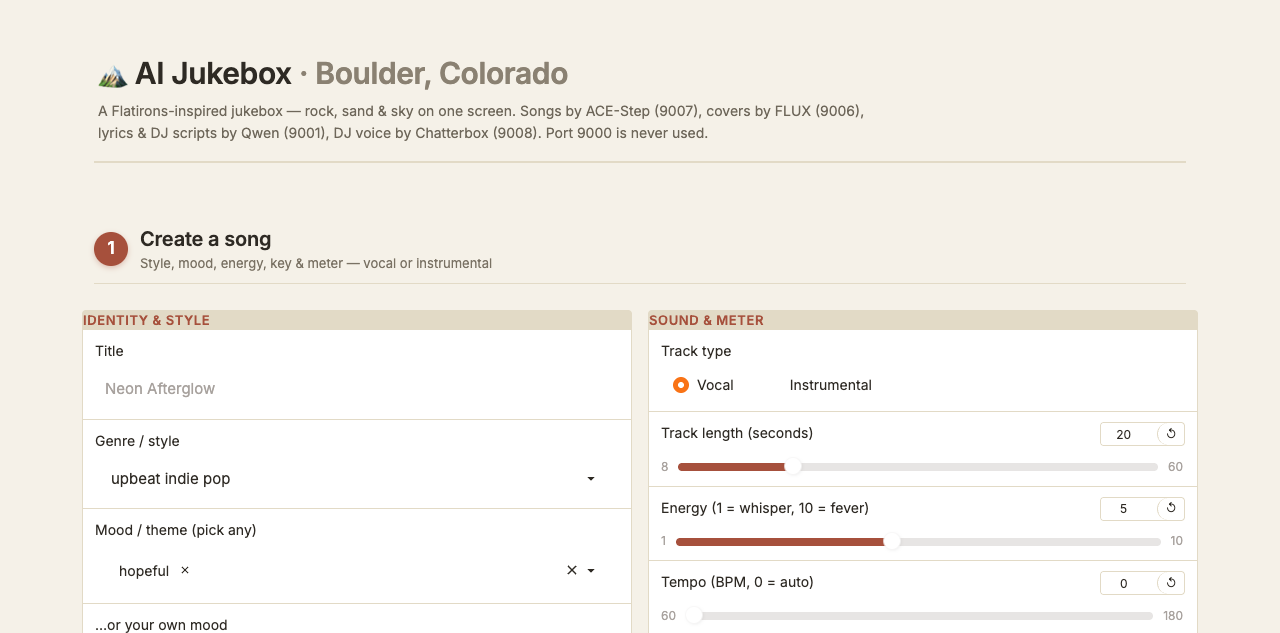
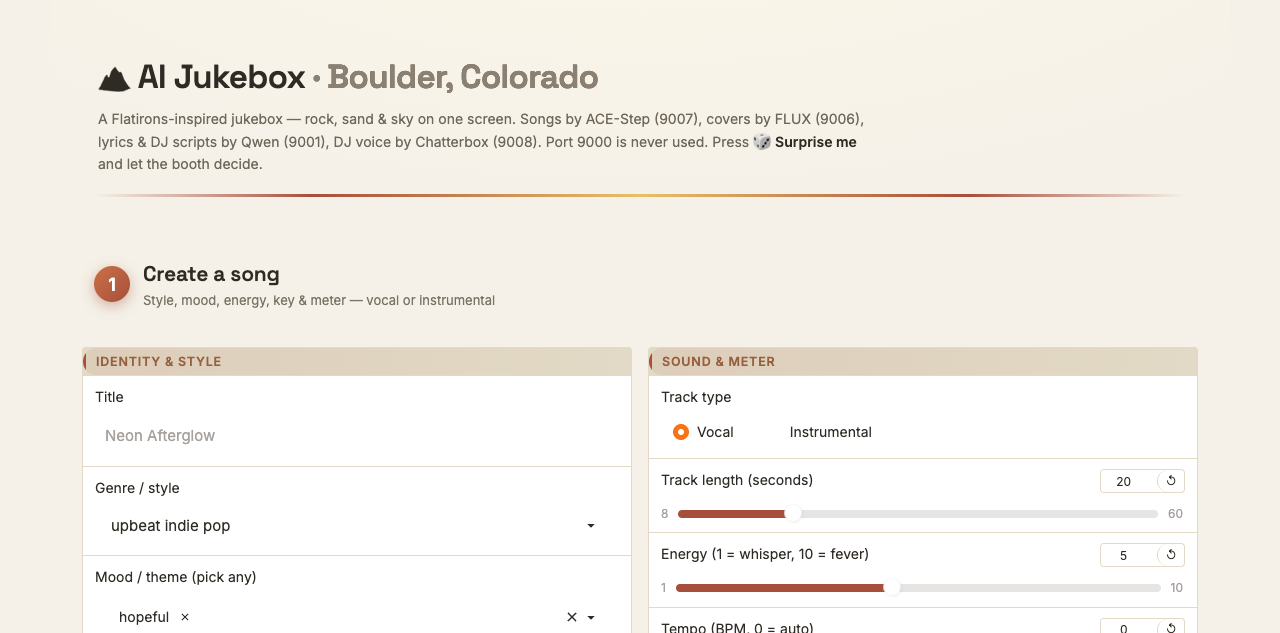
Pop redesign: gradient hero, glowing badges, pulsing actions, gold Surprise me
- Hero: gradient-clipped title (terra -> gold, Space Grotesk display type via
  @import with Inter fallback), gold sample chip, gradient hairline
- Section badges: gradient + glow; Space Grotesk headings
- Card captions: terra accent bar + soft wash; cards 14px radius + shadow
- Generate/Build the show: gradient fill + breathing pulse; Surprise me:
  gold gradient w/ playful hover tilt; Shuffle: terra hover kiss
- Background: warm radial glow; waveform stroke now a terra-gold gradient
- No wiring/logic changes (styling only) -> 53 tests still green
- Live link refreshed

diff --git a/app.py b/app.py
@@ -387,35 +387,70 @@ theme = gr.themes.Base(
 )
 
 _UI_CSS = """
-.gradio-container { max-width: 1180px !important; margin: 0 auto !important; }
+/* Display type for the big headings (falls back to Inter if offline). */
+@import url('https://fonts.googleapis.com/css2?family=Space+Grotesk:wght@600;800&display=swap');
+.gradio-container { max-width: 1180px !important; margin: 0 auto !important;
+  background: radial-gradient(1400px 560px at 50% -140px, #fdf7e9 0%, #f5f1e8 62%) !important; }
 button { border-radius: 999px !important; }
 blockquote { border-left: 3px solid #a6503c !important; }
 footer { color: #7a7264 !important; }
 
+/* ---- cards: soft, rounded, lifted ---- */
+.gradio-container .block { border-radius: 14px !important;
+  box-shadow: 0 1px 4px rgba(74, 58, 28, 0.08); border-color: #e7dfcb !important; }
+
 /* ---- hero header ---- */
-.jk-hero { padding: 26px 4px 18px; border-bottom: 2px solid #e2dac6; margin-bottom: 18px; }
-.jk-hero-title { font-size: 30px; font-weight: 800; letter-spacing: -0.4px; color: #2e2a24; }
-.jk-hero-title .city { color: #8a8172; font-weight: 600; }
-.jk-hero-sub { color: #6e675a; font-size: 14px; margin-top: 6px; max-width: 780px; line-height: 1.55; }
-.jk-hero-chip { display: inline-block; margin-top: 10px; background: #f0e8d6; color: #7a5f2e;
-  font-size: 12.5px; font-weight: 600; padding: 4px 12px; border-radius: 999px; border: 1px solid #e2dac6; }
+.jk-hero { position: relative; padding: 28px 4px 20px; margin-bottom: 22px; }
+.jk-hero::after { content: ""; position: absolute; left: 0; right: 0; bottom: -2px; height: 3px;
+  background: linear-gradient(90deg, transparent, #a6503c 20%, #e7c06a 50%, #a6503c 80%, transparent); }
+.jk-hero-title { font-size: 33px; font-weight: 800; letter-spacing: -0.6px;
+  font-family: 'Space Grotesk', 'Inter', sans-serif;
+  background: linear-gradient(90deg, #7a4528 8%, #a6503c 32%, #c2573d 58%, #d9a441 92%);
+  -webkit-background-clip: text; background-clip: text; color: transparent; }
+.jk-hero-title .city { color: #8a8172; font-weight: 600; background: none;
+  -webkit-text-fill-color: #8a8172; }
+.jk-hero-sub { color: #6e675a; font-size: 14px; margin-top: 8px; max-width: 780px; line-height: 1.6; }
+.jk-hero-chip { display: inline-block; margin-top: 12px; background: linear-gradient(135deg, #f3e3b8, #ecd49a);
+  color: #6b4e13; font-size: 12.5px; font-weight: 700; padding: 6px 14px; border-radius: 999px;
+  border: 1px solid #e0c47c; box-shadow: 0 2px 8px rgba(180, 140, 60, 0.3); }
 
 /* ---- numbered section banners ---- */
-.jk-section { display: flex; align-items: center; gap: 12px; margin: 26px 0 12px;
-  padding-bottom: 10px; border-bottom: 1px solid #e2dac6; }
-.jk-badge { flex: none; width: 34px; height: 34px; border-radius: 50%;
-  background: #a6503c; color: #fff; font-weight: 800; font-size: 17px;
-  display: flex; align-items: center; justify-content: center;
-  box-shadow: 0 2px 6px rgba(166, 80, 60, 0.35); }
-.jk-section-title { font-size: 20px; font-weight: 800; color: #2e2a24; letter-spacing: -0.2px; }
-.jk-section-desc { color: #7a7264; font-size: 13px; margin-top: 1px; }
+.jk-section { display: flex; align-items: center; gap: 13px; margin: 28px 0 14px;
+  padding-bottom: 12px; }
+.jk-badge { flex: none; width: 36px; height: 36px; border-radius: 50%;
+  background: linear-gradient(135deg, #ca7047, #a6503c); color: #fff; font-weight: 800;
+  font-size: 18px; display: flex; align-items: center; justify-content: center;
+  box-shadow: 0 4px 14px rgba(166, 80, 60, 0.45); }
+.jk-section-title { font-size: 21px; font-weight: 800; color: #2e2a24; letter-spacing: -0.2px;
+  font-family: 'Space Grotesk', 'Inter', sans-serif; }
+.jk-section-desc { color: #7a7264; font-size: 13px; margin-top: 2px; }
 
-/* ---- group mini-captions ---- */
-.jk-group-cap { font-size: 13px; font-weight: 700; color: #a6503c; text-transform: uppercase;
-  letter-spacing: 0.6px; margin-bottom: 2px; }
+/* ---- group mini-captions: accent bar + soft wash ---- */
+.jk-group-cap { font-size: 12.5px; font-weight: 800; color: #96603e; text-transform: uppercase;
+  letter-spacing: 0.8px; padding: 5px 10px; border-left: 3px solid #a6503c;
+  background: linear-gradient(90deg, rgba(166, 80, 60, 0.09), rgba(166, 80, 60, 0)); }
 
-/* ---- hero actions ---- */
-button.primary { font-size: 15px !important; font-weight: 700 !important; }
+/* ---- hero actions: pulse + gradient ---- */
+@keyframes jk-pulse {
+  0%, 100% { box-shadow: 0 4px 14px rgba(166, 80, 60, 0.30); }
+  50% { box-shadow: 0 6px 26px rgba(214, 130, 80, 0.55); }
+}
+button.primary { background: linear-gradient(135deg, #b25a44, #a6503c 60%, #bd6a45) !important;
+  animation: jk-pulse 2.8s ease-in-out infinite; transition: transform 0.15s ease; }
+button.primary:hover { transform: translateY(-1px); }
+
+/* ---- golden dice ---- */
+.jk-surprise { background: linear-gradient(135deg, #f0d9a0, #d9a441) !important;
+  color: #4a3508 !important; border-color: #cf9a38 !important; font-weight: 700 !important;
+  box-shadow: 0 3px 12px rgba(200, 150, 60, 0.4) !important;
+  transition: transform 0.15s ease, box-shadow 0.15s ease; }
+.jk-surprise:hover { transform: translateY(-1px) rotate(-1deg);
+  box-shadow: 0 6px 18px rgba(200, 150, 60, 0.55) !important; }
+
+/* ---- shuffle: terra kiss on hover ---- */
+.jk-shuffle { transition: all 0.15s ease; }
+.jk-shuffle:hover { border-color: #a6503c !important; color: #a6503c !important;
+  box-shadow: 0 2px 8px rgba(166, 80, 60, 0.2) !important; }
 """
 
 
@@ -428,7 +463,8 @@ def _hero_html() -> str:
         "<div class='jk-hero-title'>🏔 AI Jukebox <span class='city'>· Boulder, Colorado</span></div>"
         "<div class='jk-hero-sub'>A Flatirons-inspired jukebox — rock, sand &amp; sky on one "
         "screen. Songs by ACE-Step (9007), covers by FLUX (9006), lyrics &amp; DJ scripts by "
-        "Qwen (9001), DJ voice by Chatterbox (9008). Port 9000 is never used.</div>"
+        "Qwen (9001), DJ voice by Chatterbox (9008). Port 9000 is never used. "
+        "Press 🎲 <b>Surprise me</b> and let the booth decide.</div>"
         + chip + "</div>"
     )
 
@@ -477,7 +513,7 @@ with gr.Blocks(title="AI Jukebox · Boulder", theme=theme, css=_UI_CSS) as demo:
                                       value="Auto")
     with gr.Row():
         create_btn = gr.Button("🎬 Generate song + cover", variant="primary", scale=3)
-        surprise_btn = gr.Button("🎲 Surprise me", scale=1)
+        surprise_btn = gr.Button("🎲 Surprise me", scale=1, elem_classes=["jk-surprise"])
     with gr.Accordion("Custom lyrics (optional — vocal tracks; blank = AI-written)",
                       open=False):
         lyrics_box = gr.Textbox(lines=5, placeholder="[Verse 1]\n…", label="")
@@ -503,7 +539,7 @@ with gr.Blocks(title="AI Jukebox · Boulder", theme=theme, css=_UI_CSS) as demo:
                                  type="filepath")
         with gr.Row():
             build_btn = gr.Button("🎙 Build the show", variant="primary", scale=2)
-            shuffle_btn = gr.Button("🔀 Shuffle queue", scale=1)
+            shuffle_btn = gr.Button("🔀 Shuffle queue", scale=1, elem_classes=["jk-shuffle"])
     show_audio = gr.Audio(label="Queue player (continuous mix)", type="filepath",
                           autoplay=True, elem_id="show-player")
     jukebox_viz = gr.HTML(_viz_html("", []))

diff --git a/ai_jukebox/media.py b/ai_jukebox/media.py
@@ -114,10 +114,16 @@ def waveform_svg(path: str, width: int = 640, height: int = 120,
         f"{i * step_x:.1f},{mid + max(0.02, p) * amp:.1f}" for i, p in reversed(list(enumerate(peaks)))
     )
     parts = [
-        "<svg viewBox='0 0 %d %d' width='100%%' xmlns='http://www.w3.org/2000/svg'>" % (width, height),
-        "<polyline points='%s' fill='none' stroke='#a6503c' stroke-width='1.6' "
+        "<svg viewBox='0 0 %d %d' width='100%%' xmlns='http://www.w3.org/2000/svg'>"
+        % (width, height),
+        "<defs><linearGradient id='jkwave' x1='0' y1='0' x2='1' y2='0'>"
+        "<stop offset='0' stop-color='#a6503c'/>"
+        "<stop offset='0.5' stop-color='#c08a2d'/>"
+        "<stop offset='1' stop-color='#a6503c'/>"
+        "</linearGradient></defs>",
+        "<polyline points='%s' fill='none' stroke='url(#jkwave)' stroke-width='1.6' "
         "stroke-linejoin='round' opacity='0.95'/>" % top,
-        "<polyline points='%s' fill='none' stroke='#a6503c' stroke-width='1.6' "
+        "<polyline points='%s' fill='none' stroke='url(#jkwave)' stroke-width='1.6' "
         "stroke-linejoin='round' opacity='0.95'/>" % bottom,
     ]
     if markers:

diff --git a/tests/test_media.py b/tests/test_media.py
@@ -74,10 +74,11 @@ def test_waveform_svg_emits_mirrored_wave_and_markers(tmp_path):
     assert svg.startswith("<svg")
     # mirrored peaks -> two polylines
     assert svg.count("<polyline") == 2
-    # cue markers with labels
-    assert svg.count("<line") == 2
+    # cue markers with labels (dasharray lines; not the linearGradient tag)
+    assert svg.count("<line ") == 2
     assert "Neon" in svg and "DJ" in svg
     assert "#a6503c" in svg  # terra accent
+    assert "url(#jkwave)" in svg  # gradient stroke
 
 
 def test_waveform_svg_handles_garbage_path():

diff --git a/README.md b/README.md
@@ -9,7 +9,7 @@ for agentic use and is **never** used by this app.
 
 ## Live demo
 
-🔗 **https://d83a8dbdbf85c07227.gradio.live** — the app currently running.
+🔗 **https://a077115094a743378d.gradio.live** — the app currently running.
 
 > Share links rotate: this public URL dies with the app process and expires
 > automatically (~1 week). When it stops working, refresh it by launching
